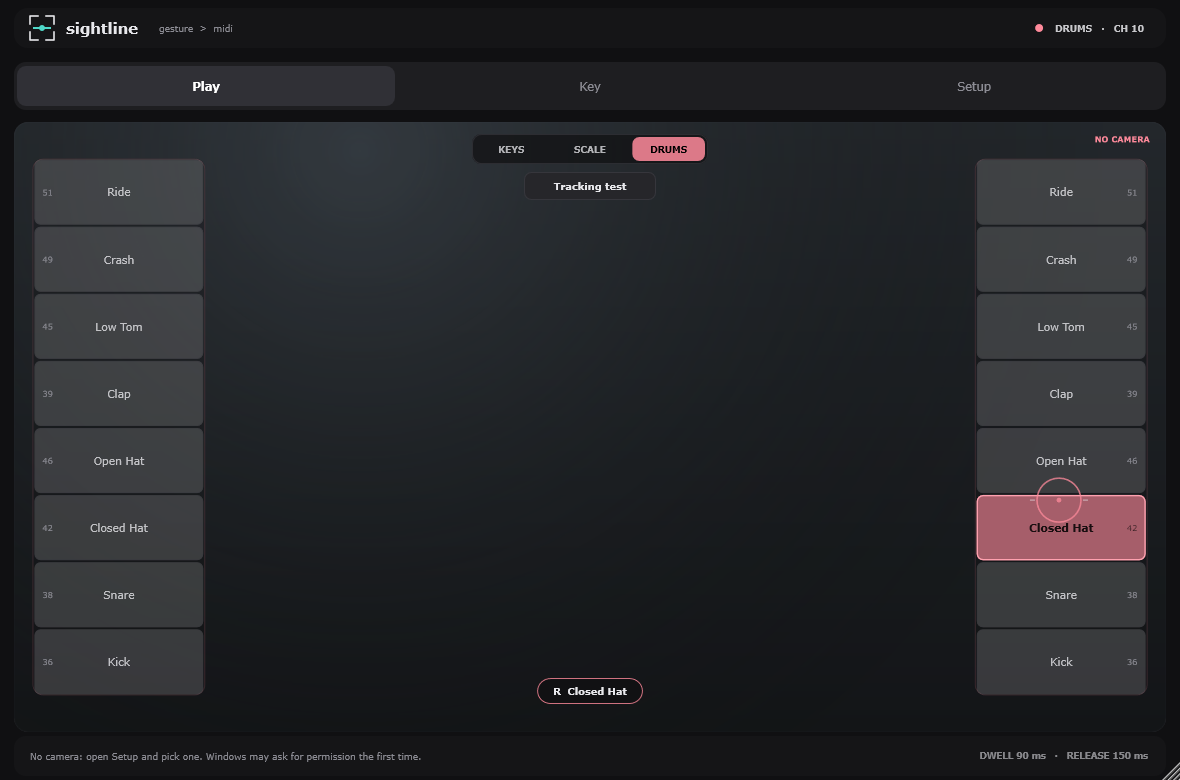
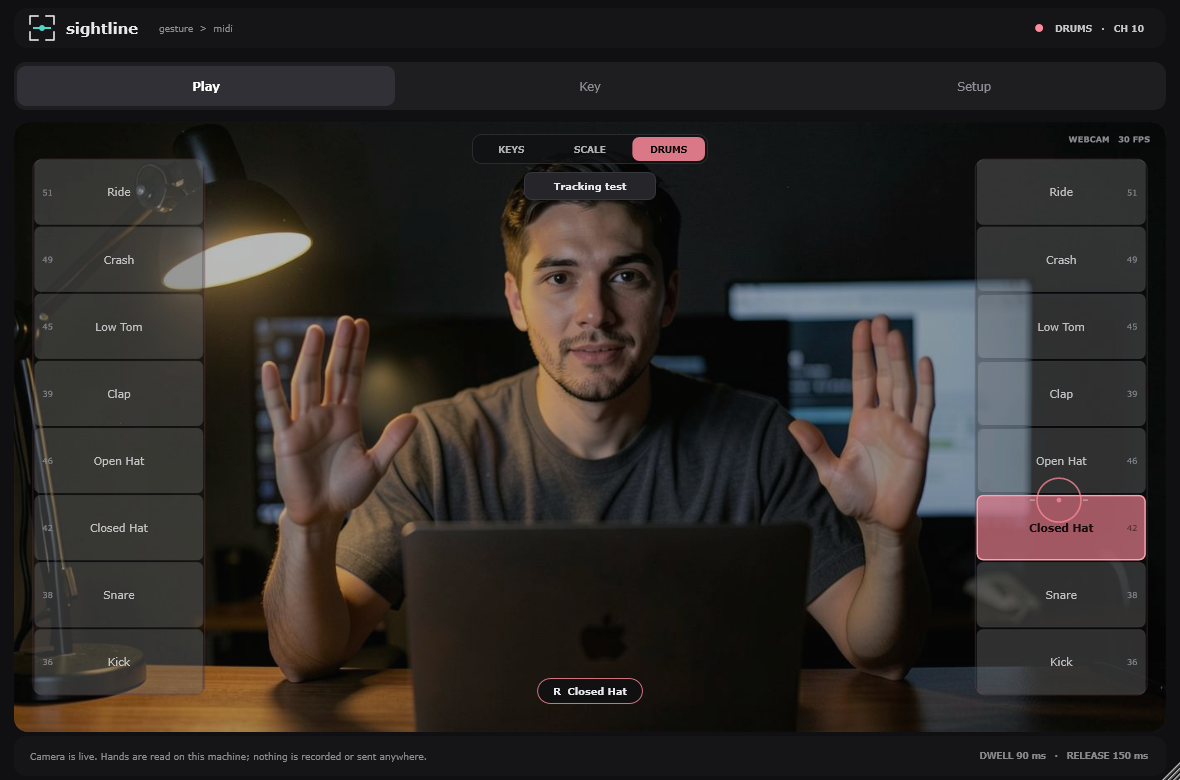
updated camera

diff --git a/Tests/smoke.cpp b/Tests/smoke.cpp
@@ -317,19 +317,38 @@ int main()
 
         const auto snapDir = juce::SystemStats::getEnvironmentVariable ("SIGHTLINE_SNAPSHOT_DIR", {});
 
-        // The checks above need a hand for the tracker to find; the pictures do
-        // not, so the stage shows the empty room while the hand stays "held".
-        const auto showEmptyRoom = [&]
+        // The checks above need a hand for the tracker to find; the pictures
+        // show a stand-in camera frame instead, so the stage has a picture
+        // behind the rails the way a live camera would.
+        auto snapshotFrame = makeCameraImage (960, 540);
+
+        if (const auto photo = juce::File::getCurrentWorkingDirectory()
+                                   .getChildFile ("docs/media/camera-frame.jpg");
+            photo.existsAsFile())
+            if (const auto loaded = juce::ImageFileFormat::loadFrom (photo); loaded.isValid())
+                snapshotFrame = loaded;
+
+        const auto showCameraFrame = [&]
         {
             if (sight != nullptr)
                 if (auto* stage = sight->getStageForTesting())
-                    stage->setFrame (makeCameraImage (960, 540));
+                    stage->setFrame (snapshotFrame);
         };
 
         if (snapDir.isNotEmpty())
         {
+            // The shots show a live-looking feed, so the chrome should agree.
+            if (sight != nullptr)
+            {
+                sight->setCameraLiveForTesting (true);
+
+                if (auto* stage = sight->getStageForTesting())
+                    stage->setCameraStatus ("webcam", true);
+            }
+
             auto save = [&] (const juce::String& name)
             {
+                proc->setCameraFps (30.0f);
                 const auto image = editor->createComponentSnapshot (editor->getLocalBounds());
                 juce::File file (snapDir + "/" + name + ".png");
                 file.deleteFile();
@@ -343,7 +362,7 @@ int main()
                 {
                     tabs->setSelected (0, true);
                     juce::MessageManager::getInstance()->runDispatchLoopUntil (60);
-                    showEmptyRoom();
+                    showCameraFrame();
                     save ("play");
 
                     // The same frame with the tracking mask over it.
@@ -367,14 +386,14 @@ int main()
                         juce::Thread::sleep (140);
                         sight->feedFrame (frame);
                         juce::MessageManager::getInstance()->runDispatchLoopUntil (60);
-                        showEmptyRoom();
+                        showCameraFrame();
                         save ("play-drums");
 
                         // Armed MIDI learn: the pad is highlighted and the
                         // banner says what to do.
                         proc->startDrumLearn (1);
                         juce::MessageManager::getInstance()->runDispatchLoopUntil (60);
-                        showEmptyRoom();
+                        showCameraFrame();
                         save ("play-learn");
                         proc->cancelDrumLearn();
 

diff --git a/Source/PluginEditor.cpp b/Source/PluginEditor.cpp
@@ -395,6 +395,7 @@ void SightLineEditor::paint (juce::Graphics& g)
     const auto overlay = proc.currentOverlay();
     const bool drums = overlay == Overlay::Drums;
     const int channel = drums ? proc.drumChannel() : proc.melodyChannel();
+    const bool cameraLive = cameraIndexOpened >= 0 || cameraLiveForTesting;
 
     const auto dot = juce::String::charToString ((juce::juce_wchar) 0x00b7);
     juce::String readout = juce::String (overlayName (overlay)).toUpperCase();
@@ -415,7 +416,7 @@ void SightLineEditor::paint (juce::Graphics& g)
 
     // Status dot: the overlay colour while the camera is live, pink without one.
     readoutArea.removeFromRight (10.0f);
-    g.setColour (cameraIndexOpened >= 0 ? accentFor (overlay) : pal::pink);
+    g.setColour (cameraLive ? accentFor (overlay) : pal::pink);
     g.fillEllipse (readoutArea.removeFromRight (8.0f).withSizeKeepingCentre (8.0f, 8.0f));
 
     // ---- footer ----------------------------------------------------------
@@ -423,7 +424,7 @@ void SightLineEditor::paint (juce::Graphics& g)
     g.setColour (pal::header);
     g.fillRoundedRectangle (f, 12.0f);
 
-    const juce::String footerText = cameraIndexOpened >= 0
+    const juce::String footerText = cameraLive
         ? "Camera is live. Hands are read on this machine; nothing is recorded or sent anywhere."
         : "No camera: open Setup and pick one. Windows may ask for permission the first time.";
 

diff --git a/Source/PluginEditor.h b/Source/PluginEditor.h
@@ -28,6 +28,10 @@ public:
     ui::TabBar* getTabBarForTesting() noexcept { return &tabs; }
     ui::StagePanel* getStageForTesting() noexcept { return &stage; }
 
+    /** Draws the live-camera chrome for offscreen snapshots, which have no
+        hardware attached. */
+    void setCameraLiveForTesting (bool live) { cameraLiveForTesting = live; repaint(); }
+
 private:
     void timerCallback() override;
     void imageReceived (const juce::Image&) override;
@@ -66,6 +70,7 @@ private:
     float fps = 0.0f;
 
     bool cameraDisabled = false;   // set by the smoke harness: no hardware in tests
+    bool cameraLiveForTesting = false;
     int testNoteOffTicks = -1;
     int testNote = 60;
     int testChannel = 1;

diff --git a/README.md b/README.md
@@ -36,7 +36,8 @@ MIDI note number in its corner.
 ![Setup page](docs/screenshots/setup.png)
 
 These are rendered offscreen by the smoke harness, which has no camera attached, so the
-picture behind the rails is a drawn test frame (see [Building](#building) to regenerate them).
+picture behind the rails is a stand-in camera frame (`docs/media/camera-frame.jpg`) rather
+than a live feed (see [Building](#building) to regenerate them).
 
 ## Building
 
